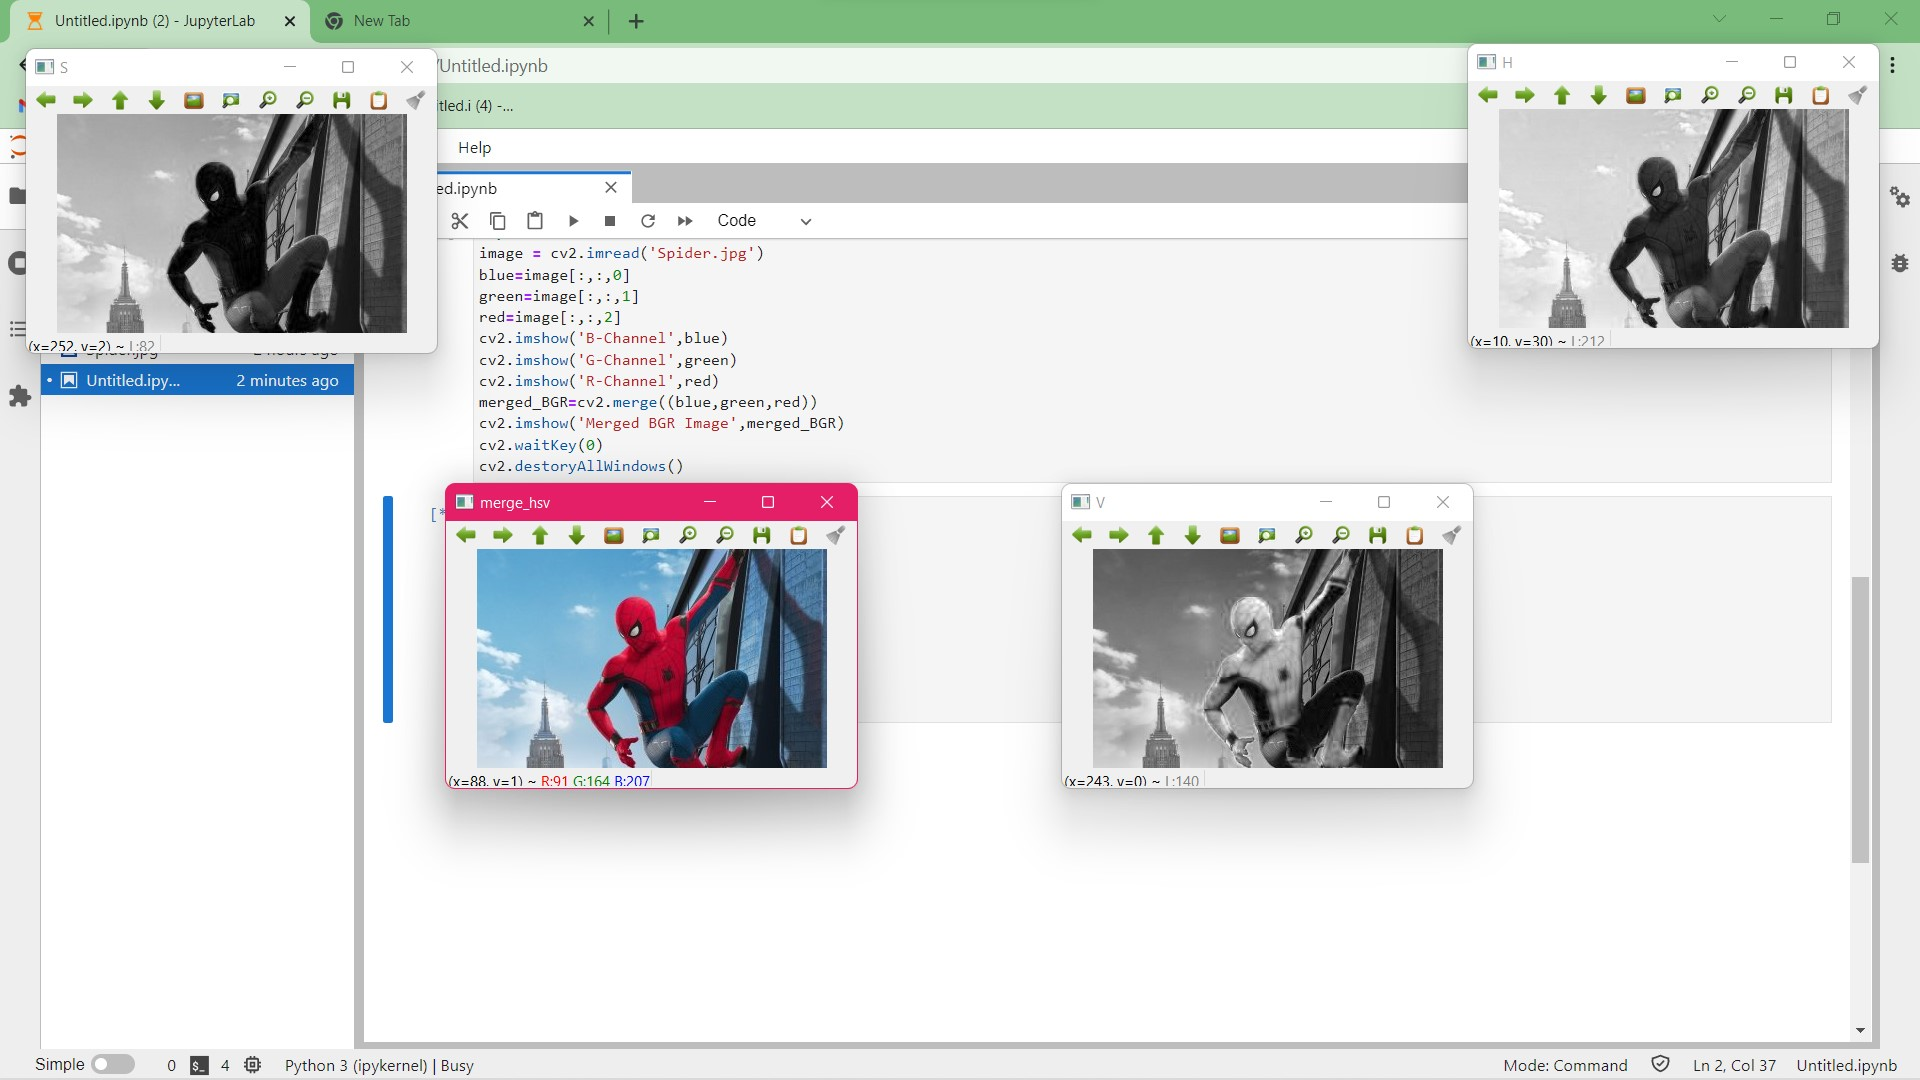
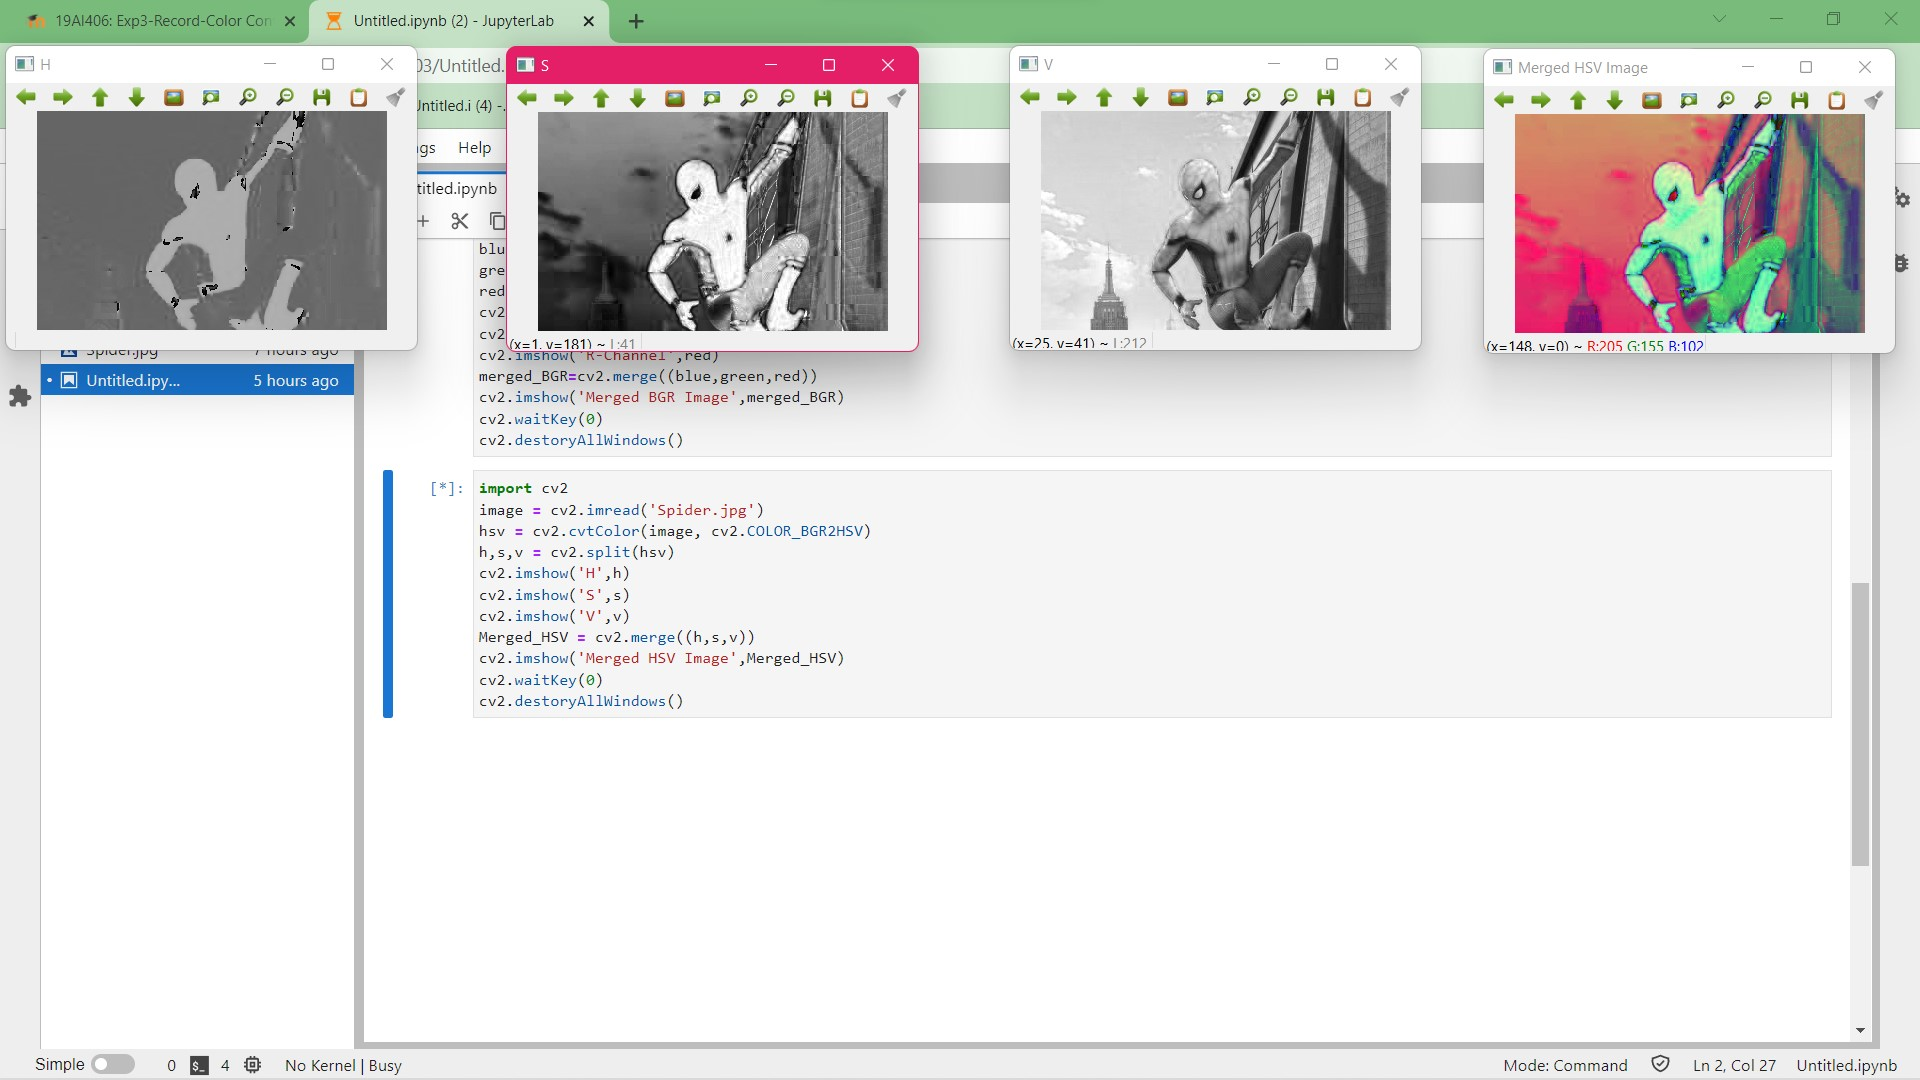
Color

diff --git a/README.md b/README.md
@@ -90,15 +90,16 @@ cv2.destoryAllWindows()
 # v) Split and merge HSV Image
 
 import cv2
-house_color_image=cv2.imread('Spider.jpg')
-h, s, v = cv2.split(house_color_image)
+image = cv2.imread('Spider.jpg')
+hsv = cv2.cvtColor(image, cv2.COLOR_BGR2HSV)
+h,s,v = cv2.split(hsv)
 cv2.imshow('H',h)
 cv2.imshow('S',s)
 cv2.imshow('V',v)
-merge_hsv=cv2.merge((h,s,v))
-cv2.imshow('merge_hsv',merge_hsv)
+Merged_HSV = cv2.merge((h,s,v))
+cv2.imshow('Merged HSV Image',Merged_HSV)
 cv2.waitKey(0)
-cv2.destroyAllWindows()
+cv2.destoryAllWindows()
 
 ```
 ## Output:
